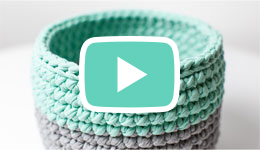
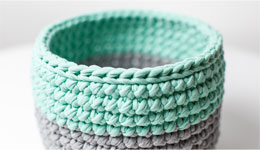
Добавляет кнопку на видео для воспроизведения

Changed region(s): [[0.2769, 0.24, 0.7077, 0.7733]]

diff --git a/source/catalog.html b/source/catalog.html
@@ -136,8 +136,11 @@
             <div class="video__container">
               <h2 class="visually-hidden">Видео</h2>
               <h3 class="video__name">Процесс производства</h3>
-              <video class="video__content" src="http://placehold.it/260x150" width="260" height="150" poster="img/jpg/video-mobile%401x.jpg">
-              </video>
+              <div class="video__content">
+                <video src="http://placehold.it/260x150" width="260" height="150" poster="img/jpg/video-mobile%401x.jpg">
+                </video>
+                <button class="video__play" type="button" aria-label="Воспроизвести видео"></button>
+              </div>
               <p class="video__text">По просьбам наших любимых фолловеров мы сняли для вас подробное видео о том, как появляются наши товары.</p>
               <a class="video__order button" href="#">Сделать заказ</a>
             </div>

diff --git a/source/less/blocks/video.less b/source/less/blocks/video.less
@@ -39,7 +39,22 @@
 }
 
 .video__content {
+  position: relative;
+
   align-self: center;
+}
+
+.video__play {
+  position: absolute;
+  top: 36.5px;
+  left: 80px;
+
+  width: 101px;
+  height: 77px;
+
+  background-image: url("../img/svg/icon-play.svg");
+  background-color: transparent;
+  border: none;
 }
 
 .video__text {
